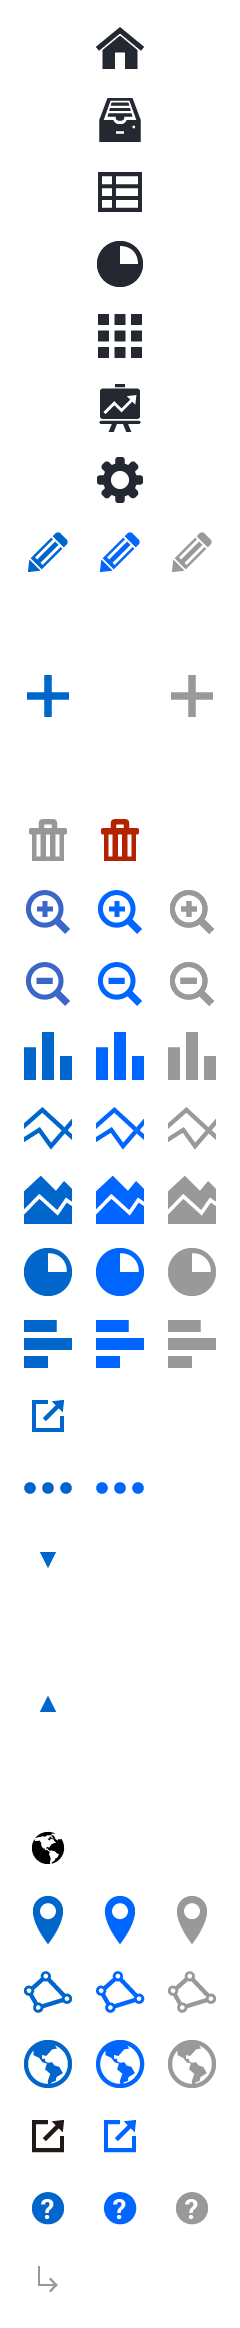
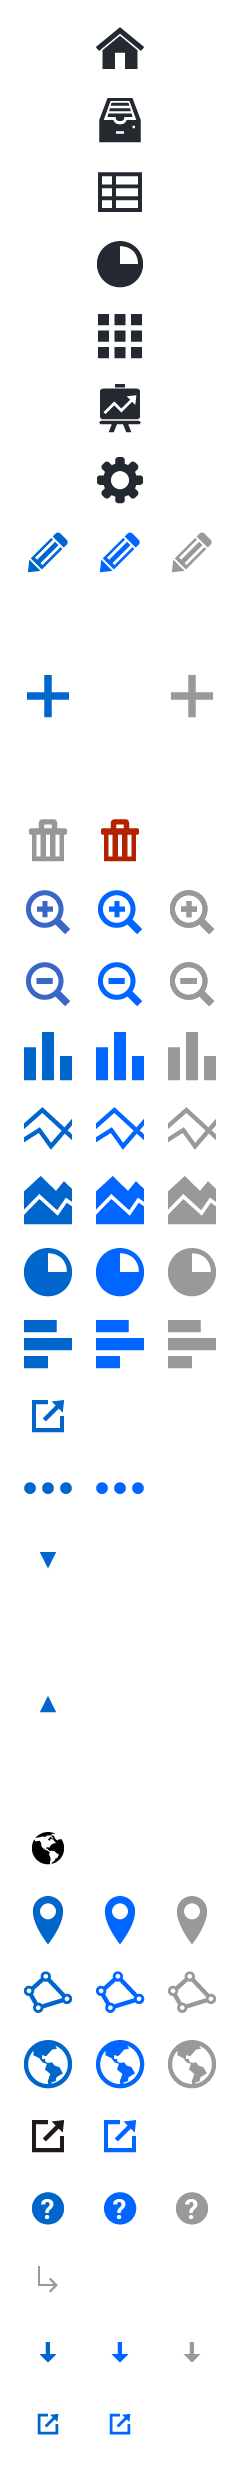
[Workspace] Íconos 'Descargar original' y 'Fuente' agregados a listado de conjuntos de datos.

diff --git a/workspace/templates/manageDatasets/templates.html b/workspace/templates/manageDatasets/templates.html
@@ -150,12 +150,12 @@
 				// If FILE
 				if(collect_type == 0){
 			%>
-				<a rel="nofollow" href="/datasets/action_request_file?dataset_revision_id=<%=id%>" id="id_downloadLink" title="{% trans 'APP-DOWNLOAD-TEXT' %}">{% trans 'APP-DOWNLOAD-ORIGINAL-TEXT' %}</a> <span class="type">(.<%= type_nice %>, <%= size = Math.floor(size / 1024) %> KB)</span>
+				<a rel="nofollow" href="/datasets/action_request_file?dataset_revision_id=<%=id%>" id="id_downloadLink" title="{% trans 'APP-DOWNLOAD-TEXT' %}"><span class="icon icon-download FL"></span>{% trans 'APP-DOWNLOAD-ORIGINAL-TEXT' %}</a> <span class="type">(.<%= type_nice %>, <%= size = Math.floor(size / 1024) %> KB)</span>
 			<% 
 				// Else, if URL or WEBSERVICE
 				} else if( collect_type == 1 || collect_type == 2 ){
 			%>
-				<a rel="nofollow" href="<%=end_point%>" target="_blank" id="id_gotosource" title="{% trans 'APP-SOURCE-TEXT' %}">{% trans 'APP-SOURCE-TEXT' %}</a> <span class="type">(<%= type_nice %>)</span>
+				<a rel="nofollow" href="<%=end_point%>" target="_blank" id="id_gotosource" title="{% trans 'APP-SOURCE-TEXT' %}"><span class="icon icon-view-site-xs FL"></span>{% trans 'APP-SOURCE-TEXT' %}</a>
 			<% }%>
 		</li>
 

diff --git a/core/media/core/styles/icons.css b/core/media/core/styles/icons.css
@@ -66,6 +66,9 @@
 	.button:hover .icon-view-site{background-position:-48px -696px;}
 	.icon-view-site.icon-inline{background-position:-16px -700px;}
 
+	.icon-view-site-xs{background-position:-12px -1200px;}
+	.icon-view-site-xs:hover{background-position:-48px -1200px;}
+
 	.icon-new-tab{background-position:-12px -1056px;}
 	.button:hover .icon-new-tab{background-position:-48px -1056px;}
 	.icon-new-tab.icon-inline{background-position:-16px -1060px;}
@@ -105,6 +108,9 @@
 
 	.icon-zoom-out{background-position:-12px -480px;}
 	.icon-zoom-out:active{background-position:-84px -480px;}
+
+	.icon-download{background-position:-12px -1164px;}
+	.icon-download:hover{background-position:-48px -1164px;}
 
 		/* Hover */
 		.icon-edit:hover,

diff --git a/workspace/media/workspace/styles/manageCommon.scss b/workspace/media/workspace/styles/manageCommon.scss
@@ -80,6 +80,7 @@
 .list-container table .actions li:before{content:"|";padding:0 7px;color:#e1e1e1;display:inline;position:relative;float:left;}
 .list-container table .actions li:first-child:before{display:none;}
 .list-container table .actions li a{line-height:18px;display:inline-block;cursor:pointer;}
+.list-container table .actions li a .icon{margin:-3px -2px 0 -7px;}
 .list-container table .actions li.review{visibility:visible;}
 .list-container table .actions li.review a{padding-left:23px;background:url(../images/common/ic_warning_orange.png) no-repeat 0 1px;}
 .list-container table button.small{float:left;padding:0;background:none;}

diff --git a/workspace/js/manageDatasets/manageDatasetsView.js b/workspace/js/manageDatasets/manageDatasetsView.js
@@ -233,21 +233,6 @@ var ManageDatasetsView = Backbone.View.extend({
 			sortable: true,
 			editable: false
 		}, {
-			name: "type_nice",
-			label: gettext('APP-GRID-CELL-TYPE'),
-			cell: Backgrid.StringCell.extend({
-				render: function() {
-					var typeCellView = new TypeCellView({
-						model: this.model,
-						itemCollection: self.listResources
-					});
-					this.$el.html(typeCellView.render().el);
-					return this;
-				}
-			}),
-			sortable: false,
-			editable: false
-		}, {
 			name: "author",
 			label: gettext('APP-GRID-CELL-AUTHOR'),
 			cell: "text",
